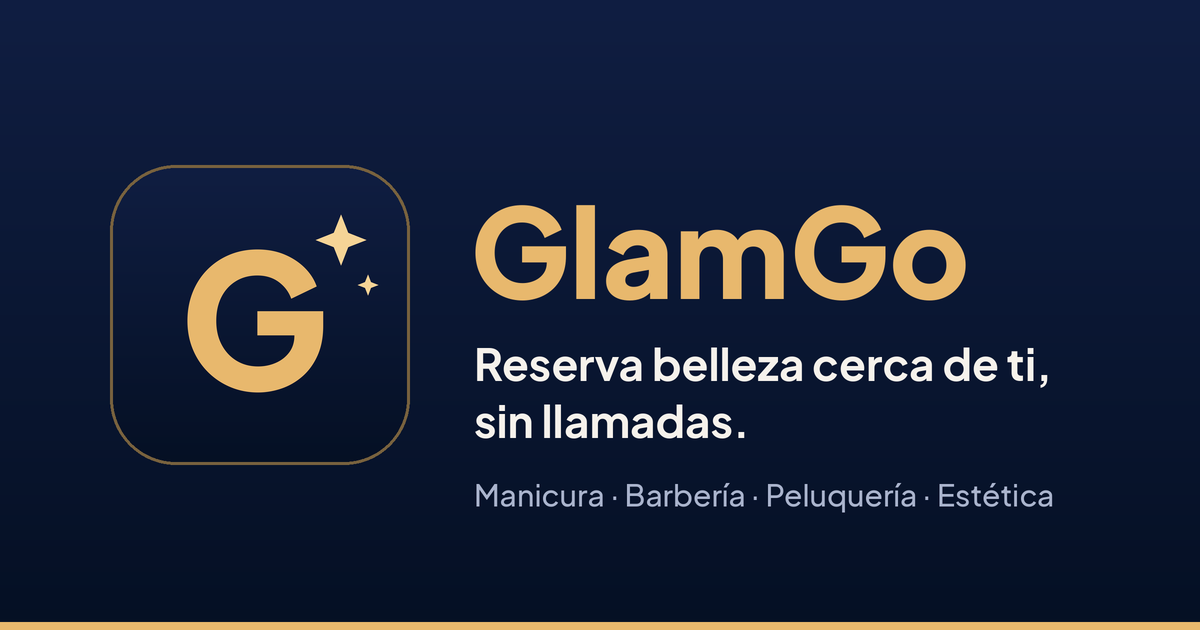
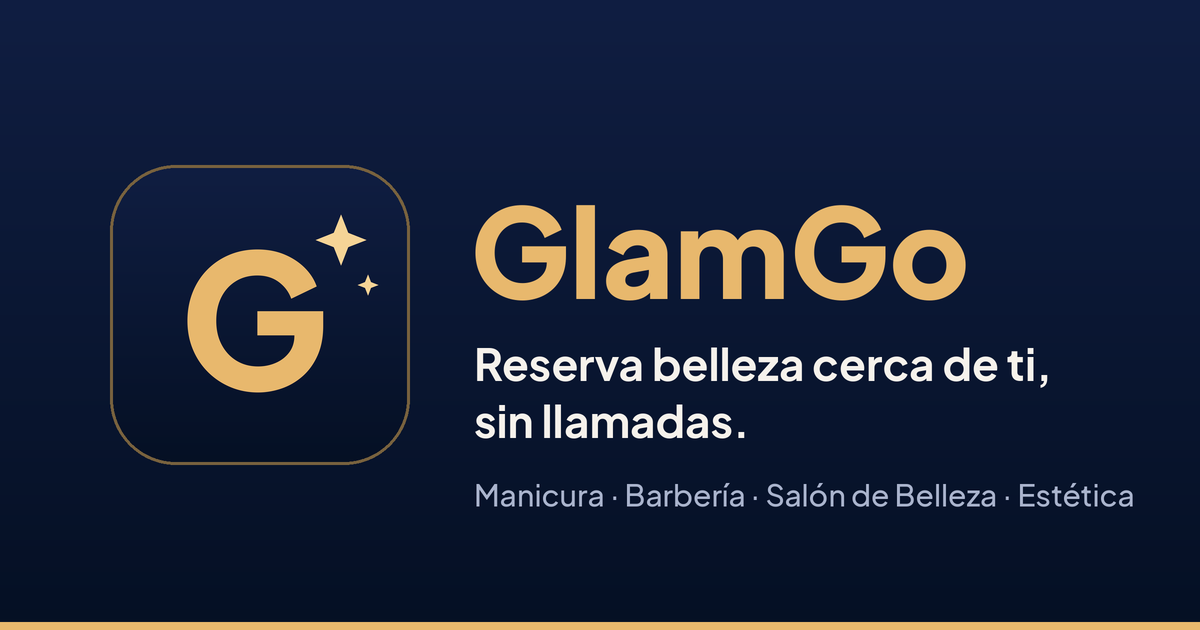
La sección Peluquería pasa a llamarse Salón de Belleza [web] [capturas]
Claude-Session: https://claude.ai/code/session_01L2DNzYkziMvut5B4yS4gZe

Changed region(s): [[0.6167, 0.754, 0.9558, 0.8143]]

diff --git a/app_pro/test/clienta_test.dart b/app_pro/test/clienta_test.dart
@@ -69,12 +69,12 @@ void main() {
 
     expect(find.text('Manicura'), findsOneWidget);
     expect(find.text('Barbería'), findsOneWidget);
-    expect(find.text('Peluquería'), findsOneWidget);
+    expect(find.text('Salón de Belleza'), findsOneWidget);
     expect(find.text('Próximamente'), findsNWidgets(2));
 
-    await tester.tap(find.text('Peluquería'));
+    await tester.tap(find.text('Salón de Belleza'));
     await tester.pump();
-    expect(find.text('Peluquería llega muy pronto a GlamGo.'), findsOneWidget);
+    expect(find.text('Salón de Belleza llega muy pronto a GlamGo.'), findsOneWidget);
     await tester.pumpAndSettle(const Duration(seconds: 5));
 
     await _abrirNails(tester);

diff --git a/app_pro/lib/i18n_textos.dart b/app_pro/lib/i18n_textos.dart
@@ -14,7 +14,7 @@ const traducciones = <String, (String, String)>{
   'Idioma': ('Language', 'Sprache'),
   'Manicura': ('Manicure', 'Maniküre'),
   'Barbería': ('Barber', 'Barbier'),
-  'Peluquería': ('Hair salon', 'Friseur'),
+  'Salón de Belleza': ('Beauty Salon', 'Schönheitssalon'),
   'Estética': ('Beauty', 'Kosmetik'),
   'Manicura, gel, acrílico y nail art': ('Manicure, gel, acrylic and nail art', 'Maniküre, Gel, Acryl und Nail Art'),
   'Cortes, degradados y barba': ('Haircuts, fades and beards', 'Haarschnitte, Fades und Bart'),

diff --git a/app_pro/web/index.html b/app_pro/web/index.html
@@ -18,7 +18,7 @@
 
   <meta charset="UTF-8">
   <meta content="IE=Edge" http-equiv="X-UA-Compatible">
-  <meta name="description" content="GlamGo: reserva uñas, barbería, peluquería y estética cerca de ti, sin llamadas.">
+  <meta name="description" content="GlamGo: reserva uñas, barbería, salón de belleza y estética cerca de ti, sin llamadas.">
   <meta name="theme-color" content="#0A1530">
 
   <!-- Vista previa al compartir el enlace (WhatsApp, Instagram, etc.) -->

diff --git a/app_pro/lib/sectores.dart b/app_pro/lib/sectores.dart
@@ -144,8 +144,8 @@ const sectores = [
   ),
   Sector(
     id: 'peluqueria',
-    nombre: 'Peluquería',
-    marca: 'Peluquería',
+    nombre: 'Salón de Belleza',
+    marca: 'Salón de Belleza',
     descripcion: 'Corte, color y peinados',
     lema: 'Corte, color y peinados cerca de ti',
     icono: Icons.face_3_outlined,

diff --git a/tools/traducciones.py b/tools/traducciones.py
@@ -15,7 +15,7 @@ T = {
 # Secciones
 'Manicura': ('Manicure', 'Maniküre'),
 'Barbería': ('Barber', 'Barbier'),
-'Peluquería': ('Hair salon', 'Friseur'),
+'Salón de Belleza': ('Beauty Salon', 'Schönheitssalon'),
 'Estética': ('Beauty', 'Kosmetik'),
 'Manicura, gel, acrílico y nail art': ('Manicure, gel, acrylic and nail art', 'Maniküre, Gel, Acryl und Nail Art'),
 'Cortes, degradados y barba': ('Haircuts, fades and beards', 'Haarschnitte, Fades und Bart'),
